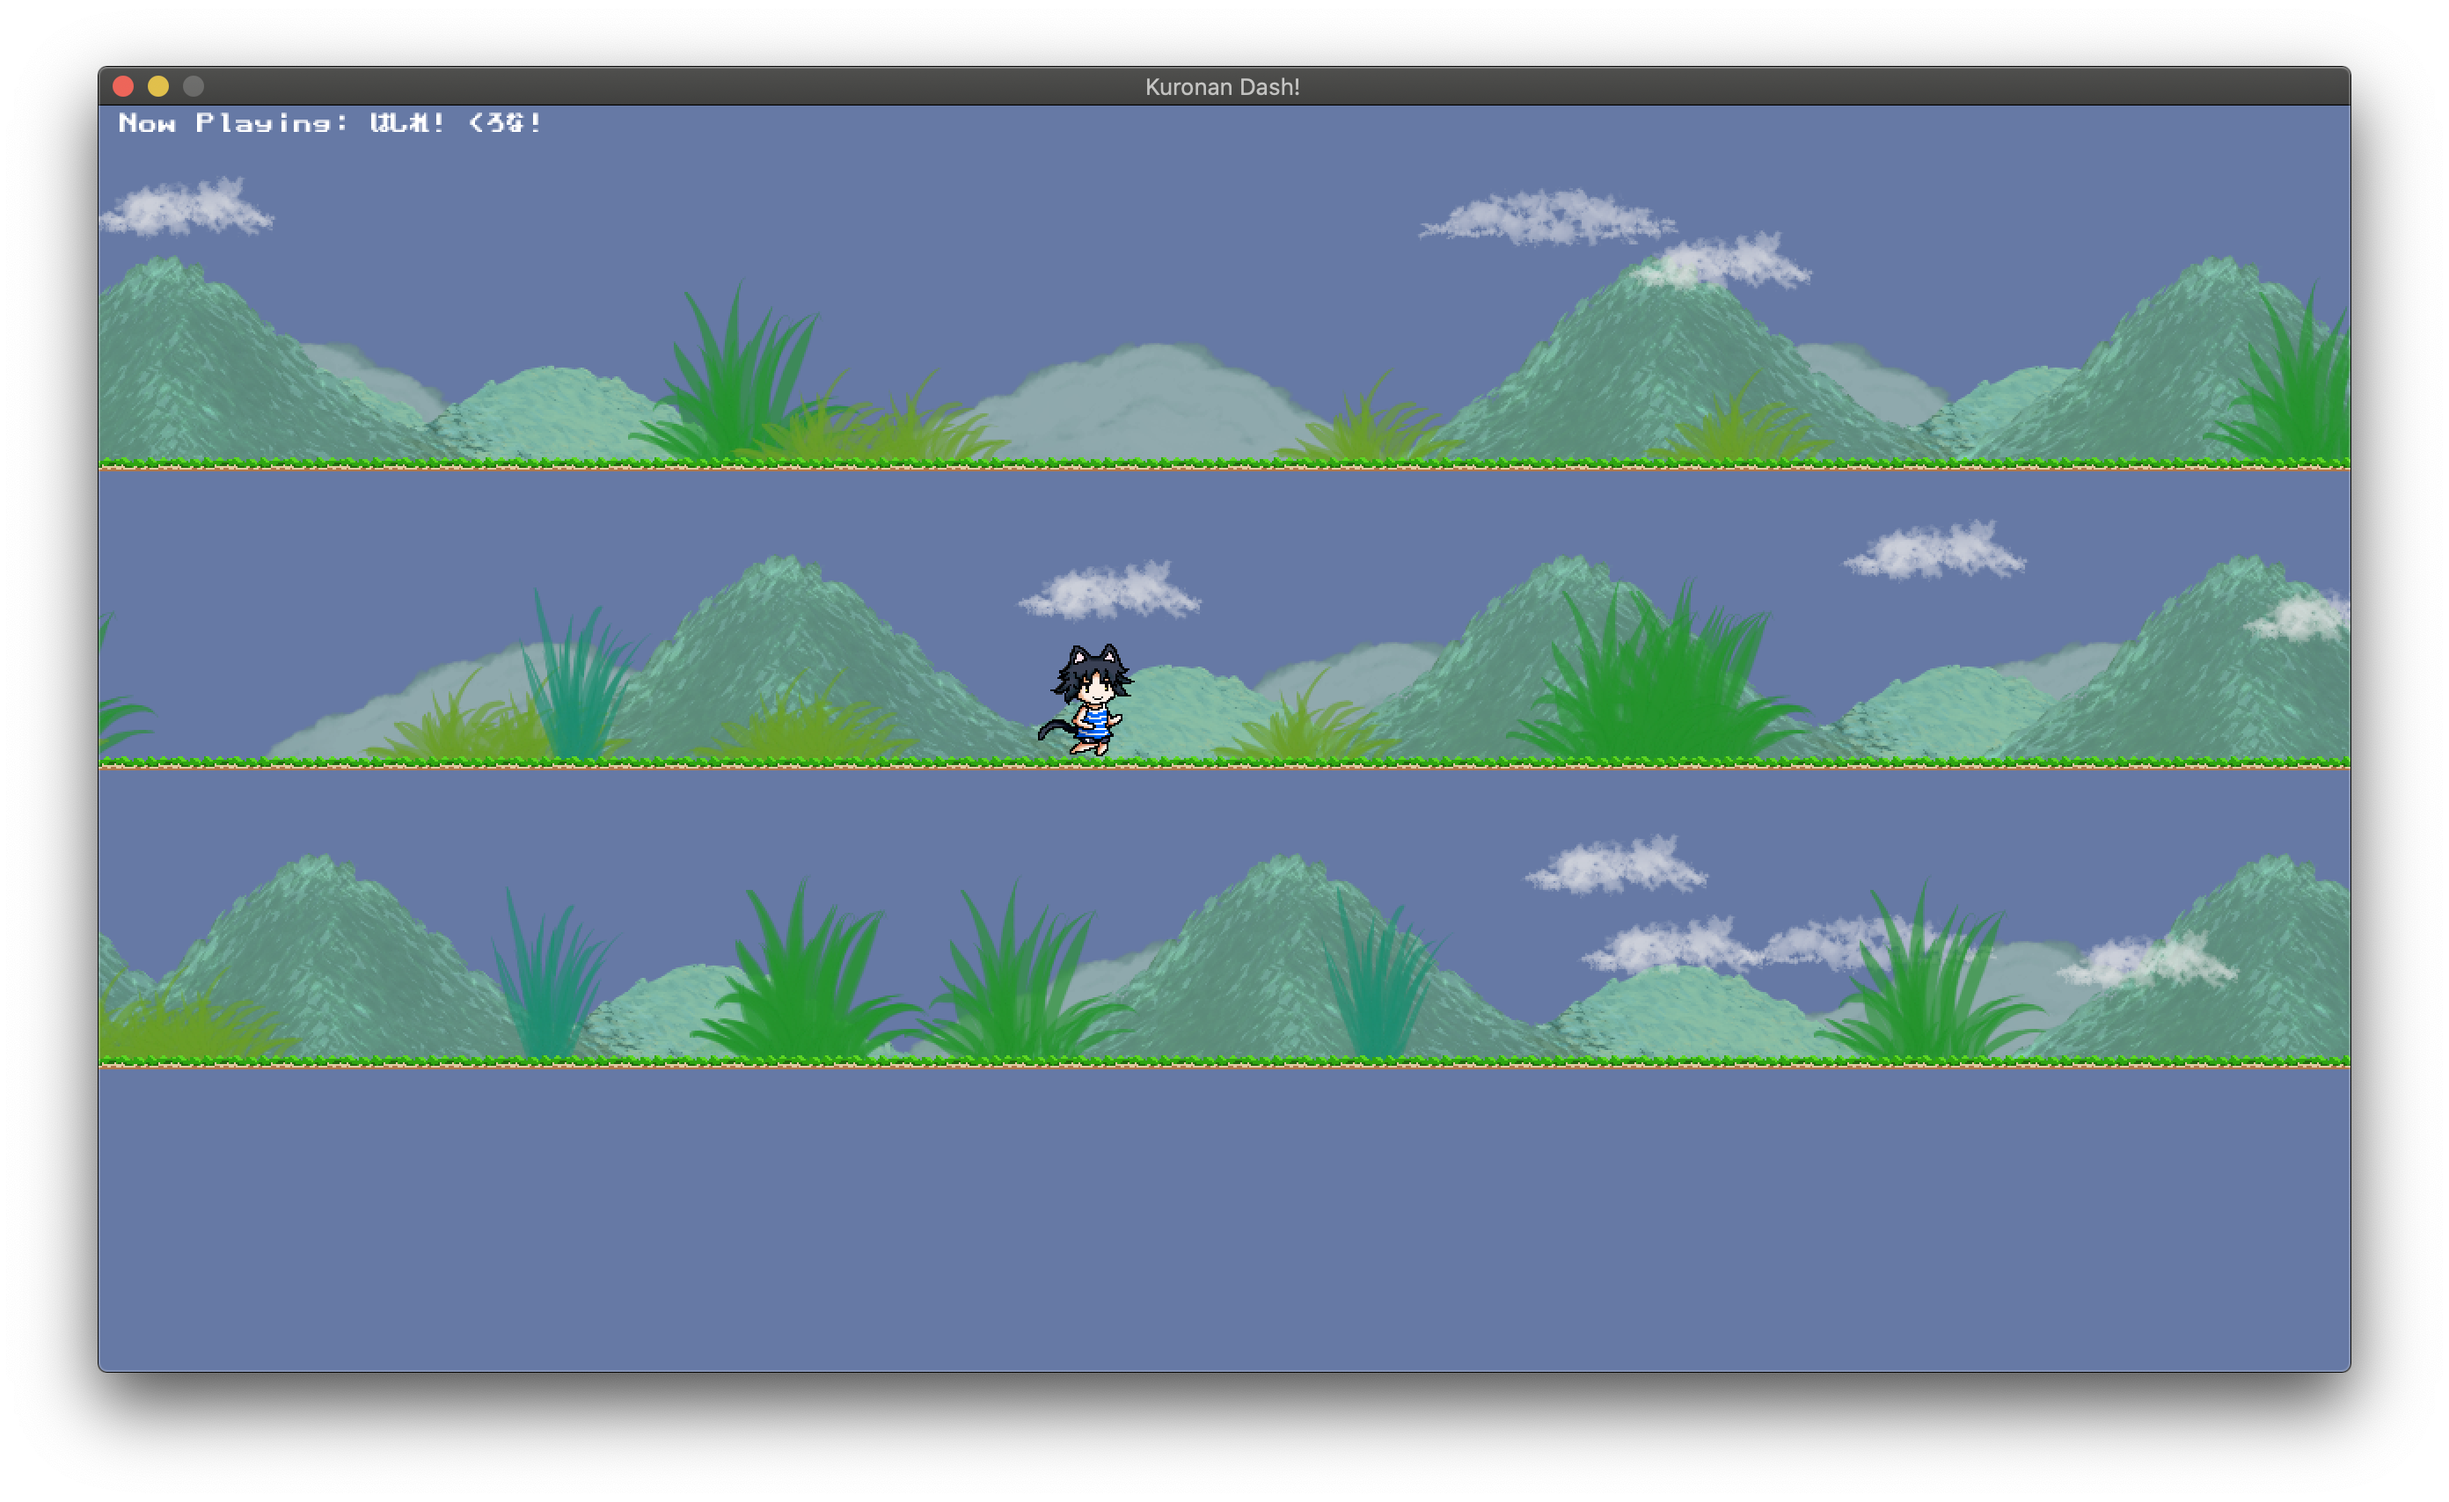
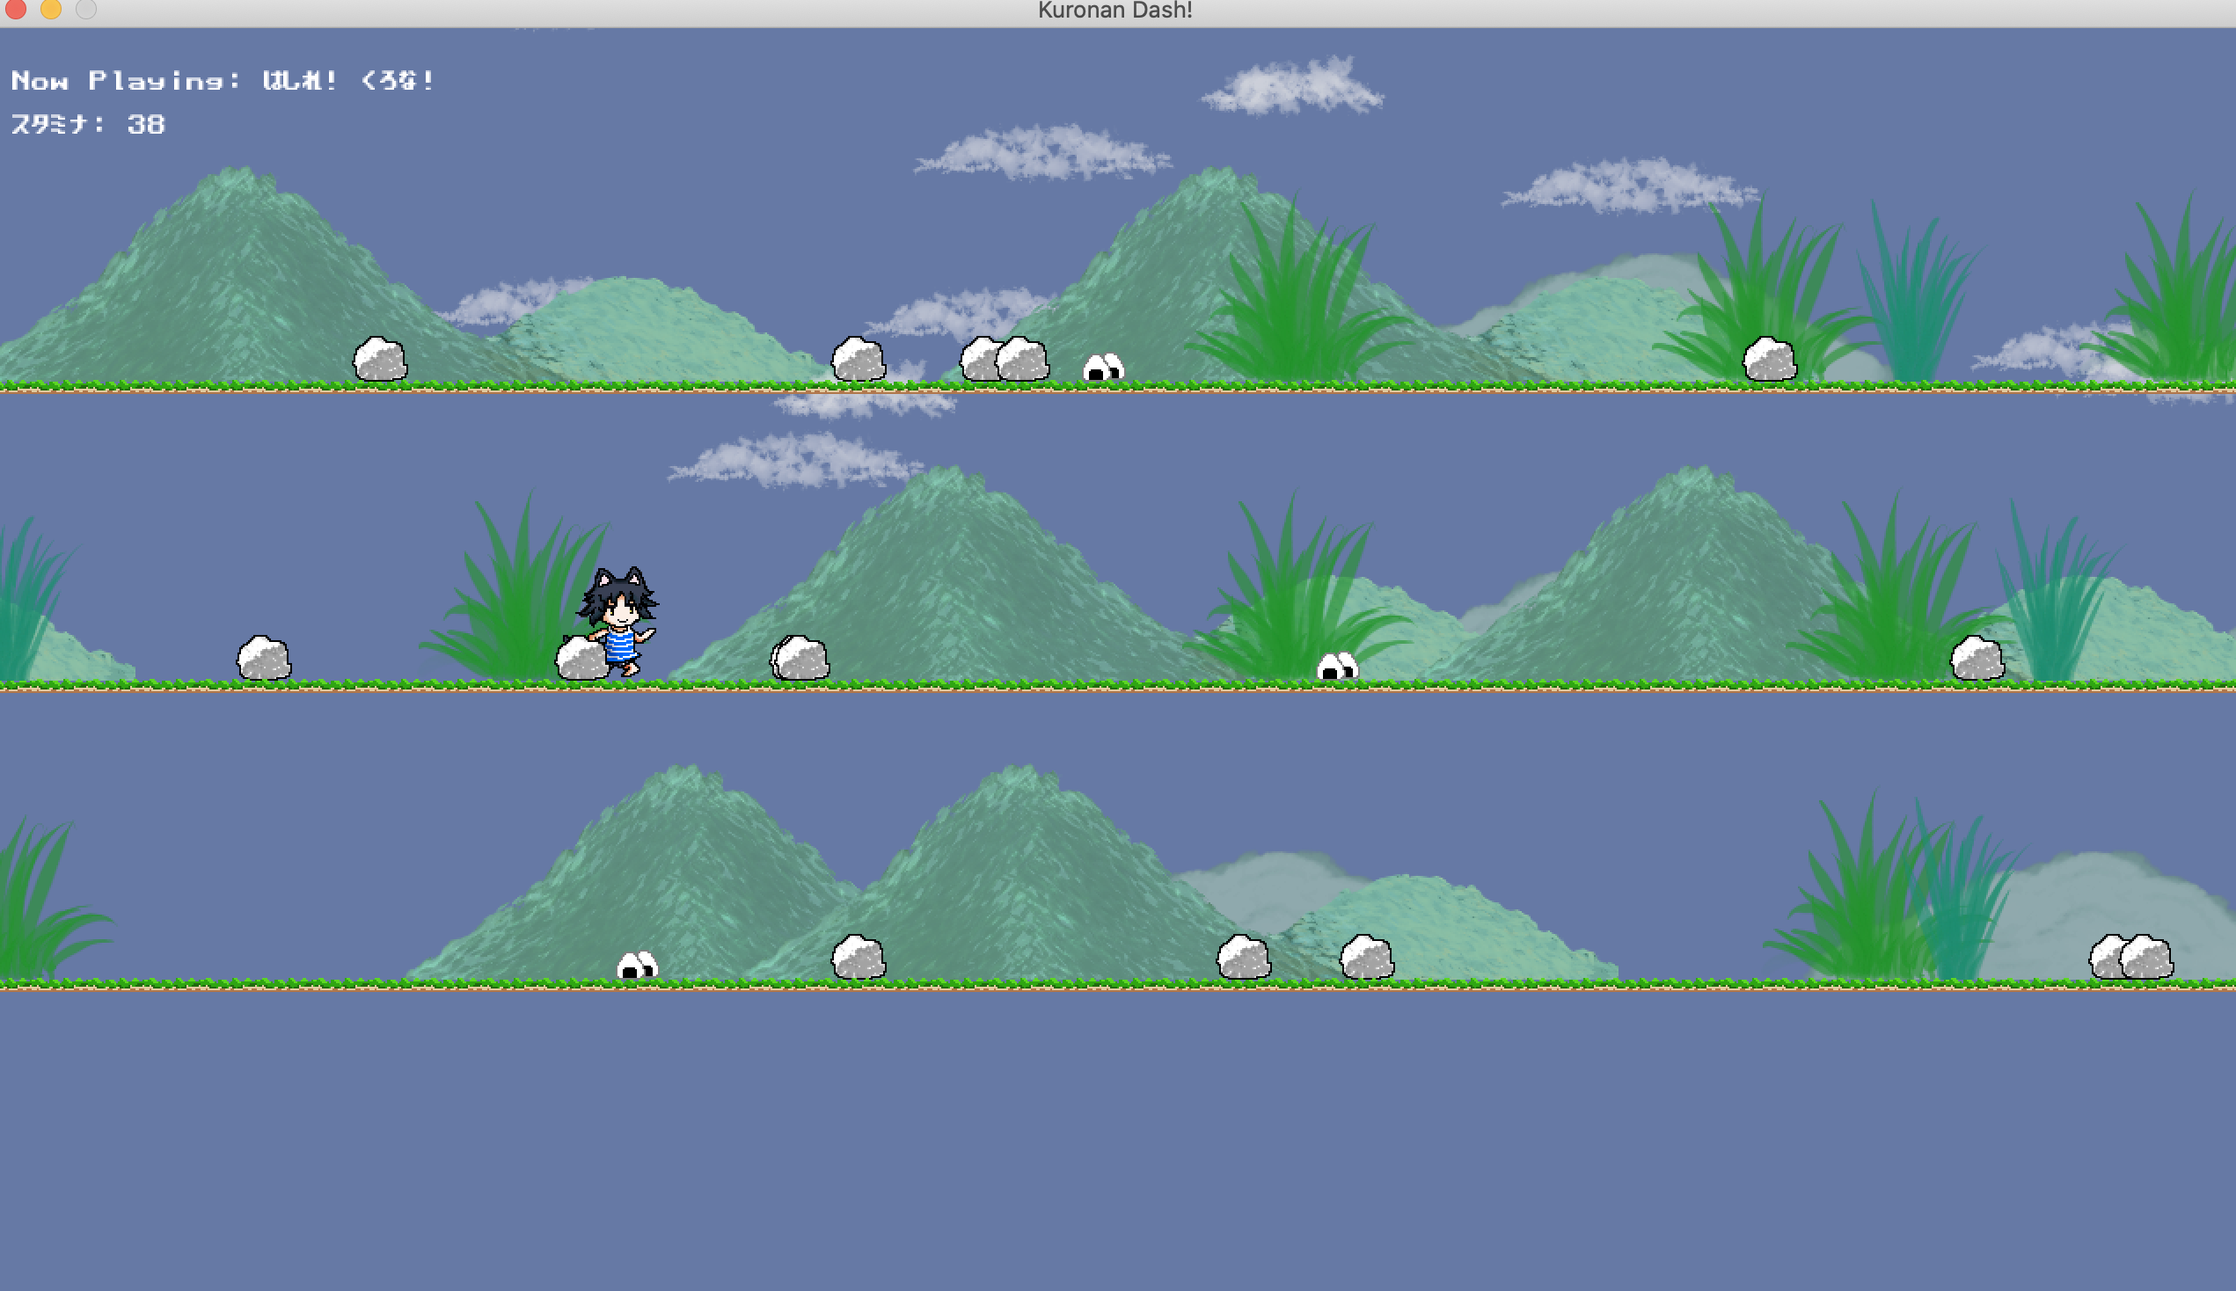
docs: update feature list

diff --git a/README.md b/README.md
@@ -13,16 +13,13 @@
 
 こんなゲームを作っています。:blush:
 
-- キャラクターを1人選んで遊びます。
-  - 選択可能なキャラクターは「黒菜」「独楽」「獅子丸」の3人
-
+キャラクターを1人選んで遊びます。選択可能なキャラクターは「黒菜」「独楽」「獅子丸」の3人です。
 ![SelectScreen](media/select_screen.png)
 
-- コースをダッシュで走り抜けます。
-
+コースをダッシュで走り抜けます。岩などの障害物に当たっている間やスタミナが0の間は走れなくなって歩いてしまいます。
 ![GameScreenKurona](media/game_screen_kurona.png)
 
-### 機能の実装状況
+### ゲームの実装状況
 
 - [ ] 制限時間内にゴールできないとゲームオーバーです。
 - [x] 道は上中下の3レーンあり、ぴょんぴょん飛び移りながら走ります。
@@ -32,13 +29,21 @@
   - [ ] キャラクターは障害物に攻撃できます。
   - [ ] キャラクターは攻撃が障害物に当たると、スタミナを消費します。
   - [ ] 障害物はキャラクターの攻撃で砕いてもよいし、避けてもよいです。
-- [ ] キャラクターはスタミナゲージをもっており、スタミナがなくなると歩くようになります。
-- [ ] 道にはいろんな食べ物が落ちています。
-  - [ ] 食べ物を食べるとキャラクターはスタミナが回復します。
+- [x] キャラクターはスタミナゲージをもっており、スタミナがなくなると歩くようになります。
+- [x] 道にはいろんな食べ物が落ちています。
+  - [x] 食べ物を食べるとキャラクターはスタミナが回復します。
   - [ ] キャラクターごとに食べ物の好みがあって、スタミナの回復量は好みに左右されます。
 - [ ] キャラクターはテンションゲージをもっています。
   - [ ] テンションゲージは走っても少しずつ増えますし、障害物を砕くとグンと増えます。
   - [ ] テンションMAXで、キャラクター固有のスキルが使えるようになります。
+
+## ビルド方法
+
+Go Ver. 1.13以上が必要です。`Go Modules`の仕組みを使っています。
+
+```sh
+$ go build
+```
 
 ## 作者
 
@@ -48,21 +53,11 @@
 
 :orange_book: [Apache License Version 2.0](https://github.com/kemokemo/kuronan-dash/blob/master/LICENSE)
 
-ソースコードだけでなく、assetsディレクトリ以下の画像や音楽、効果音データなども上記のライセンスです。
-
-なお、フォントは[患者長ひっくさん](https://twitter.com/hicchicc)の[ザ・ストロングゲーマー](http://www17.plala.or.jp/xxxxxxx/00ff/)フォントを使わせていただいています。
+ソースコードだけでなく、`assets`ディレクトリ以下の画像や音楽、効果音データなども上記のライセンスです。なお、フォントは[患者長ひっくさん](https://twitter.com/hicchicc)の[ザ・ストロングゲーマー](http://www17.plala.or.jp/xxxxxxx/00ff/)フォントを使わせていただいています。
 
 ## スペシャルサンクス
 
-[hajimehoshi](https://github.com/hajimehoshi)さんが作っておられる素敵なGo言語の2Dゲームライブラリ[ebiten](https://github.com/hajimehoshi/ebiten)を使っています。  
+[@hajimehoshi](https://github.com/hajimehoshi)さんが作っておられる素敵なGo言語の2Dゲームライブラリ[ebiten](https://github.com/hajimehoshi/ebiten)を使っています。  
 この場をお借りしてお礼申し上げます。
 
-そして大好きな「[ねこむすめ道草日記](http://www.comic-ryu.jp/_nekomusume/)」の作者である[いけ先生](https://twitter.com/ikenokappa)に感謝申し上げます。
-
-## ビルド方法
-
-Go Ver. 1.13以上が必要です。`Go Modules`の仕組みを使っています。
-
-```sh
-$ go build
-```
+そして、大好きな「[ねこむすめ道草日記](http://www.comic-ryu.jp/_nekomusume/)」の作者である「[いけ先生](https://twitter.com/ikenokappa)」に感謝申し上げます。
